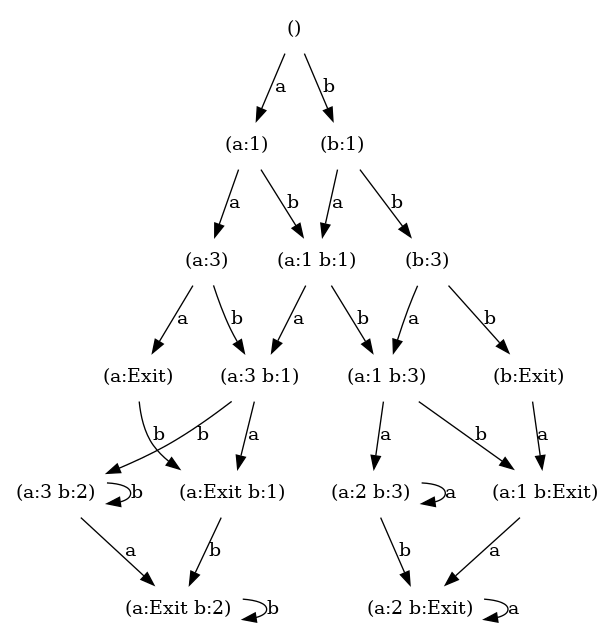
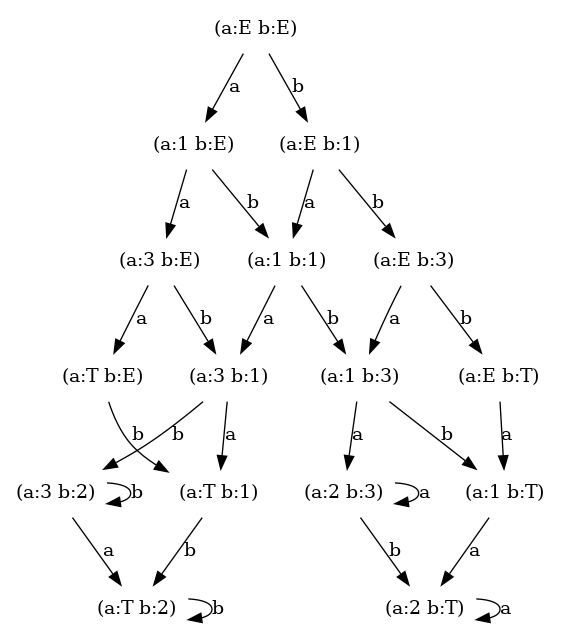
Andrey/Further docs and samples

diff --git a/race2/abstract.py b/race2/abstract.py
@@ -13,7 +13,7 @@ ProcessGenerator = NewType("ProcessGenerator", Generator[StateID, None, None])
 
 class SpecialState(enum.Enum):
     Entry = 1
-    Exit = 2
+    Terminated = 2
     # Error = 3
 
     def __repr__(self):
@@ -36,9 +36,16 @@ class Execution:
     identifiable state of some abstract process.
     """
 
-    curr_processes: dict[ProcessID, ProcessGenerator]
+    curr_processes: dict[ProcessID, ProcessGenerator] = field(default_factory=dict)
     curr_path: Path = field(default_factory=list)
-    curr_states: list[StateID | SpecialState] = field(default_factory=list)
+    _curr_state: "ExecutionState" = field(default_factory=lambda: ExecutionState())
+
+    def add_process(self, process_id: ProcessID, fun: ProcessGenerator) -> None:
+        if process_id in self.curr_processes:
+            raise AssertionError
+
+        self.curr_processes[process_id] = fun
+        self._curr_state[process_id] = SpecialState.Entry
 
     @property
     def available_processes(self) -> list[ProcessID]:
@@ -46,7 +53,7 @@ class Execution:
 
     @property
     def curr_state(self) -> "ExecutionState":
-        return ExecutionState.from_path_states(self.curr_path, self.curr_states)
+        return self._curr_state.copy()
 
     def next(self, process_id: ProcessID) -> StateID | SpecialState:
         if process_id not in self.available_processes:
@@ -59,10 +66,11 @@ class Execution:
             # we intentionally do not handle any exceptions here, exiting is exiting.
             # these should be handled up the call stack
             del self.curr_processes[process_id]
-            next_state_id = SpecialState.Exit
+            next_state_id = SpecialState.Terminated
 
         self.curr_path.append(process_id)
-        self.curr_states.append(next_state_id)
+
+        self._curr_state[process_id] = next_state_id
 
         return next_state_id
 
@@ -87,6 +95,14 @@ class ExecutionState:
     @classmethod
     def zero(cls):
         return ExecutionState({})
+
+    def copy(self) -> "ExecutionState":
+        return ExecutionState(dict(self.states))
+
+    def __setitem__(
+        self, key: ProcessID, value: StateID | SpecialState
+    ) -> "ExecutionState":
+        self.states[key] = value
 
     @classmethod
     def from_path_states(
@@ -124,6 +140,8 @@ class Visitor:
     # paths to cover
     queue: Deque[Path] = field(default_factory=deque)
 
+    root_states: set[ExecutionState] = field(default_factory=set)
+
     paths_found_ctr: int = 0
     instantiation_ctr: int = 0
     edge_visit_ctr: int = 0
@@ -153,20 +171,19 @@ class Visitor:
             self._push_path(path)
 
     def split_path_visited(self, path: Path) -> tuple[bool, Path, Path]:
-        curr_state = ExecutionState.zero()
+        for curr_state in self.root_states:
+            for i, next_process_id in enumerate(path):
+                # if curr_state != ExecutionState.zero() and all(
+                #     v == SpecialState.Exit for v in curr_state.states.values()
+                # ):
+                #     return False, path[:i], path[i:]
 
-        for i, next_process_id in enumerate(path):
-            # if curr_state != ExecutionState.zero() and all(
-            #     v == SpecialState.Exit for v in curr_state.states.values()
-            # ):
-            #     return False, path[:i], path[i:]
+                key = curr_state, next_process_id
 
-            key = curr_state, next_process_id
-
-            if key in self.visited_edges:
-                curr_state = self.visited_edges[key]
-            else:
-                return True, path[:i], path[i:]
+                if key in self.visited_edges:
+                    curr_state = self.visited_edges[key]
+                else:
+                    return True, path[:i], path[i:]
 
         return True, path, Path([])
 
@@ -201,6 +218,8 @@ class Visitor:
     def next_sub(self, seed: Path) -> int:
         self.instantiation_ctr += 1
         current_execution: Execution = self.factory()
+
+        self.root_states.add(current_execution.curr_state)
 
         paths_found_ctr: int = 0
 

diff --git a/race2_examples/retry.py b/race2_examples/retry.py
@@ -1,0 +1,67 @@
+from race2.abstract import (
+    ProcessGenerator,
+    Execution,
+    ProcessID,
+    Visitor,
+)
+from race2.util.graphviz import graphviz
+from race2_examples.util import DB
+
+
+def main():
+    MAX_RETRY_COUNT = 3
+
+    def factory() -> Execution:
+        database: DB = DB()
+
+        thread_ctr: int = 0
+
+        def thread(
+            database: DB,
+            thread_id: int,
+            retry_ctr: int = 1,
+            max_retry_count: int = MAX_RETRY_COUNT,
+        ) -> ProcessGenerator:
+            nonlocal thread_ctr
+
+            if database.compare_and_swap(
+                value_key="1", expected_value=None, set_value=thread_id
+            ):
+                yield 1
+                database.compare_and_swap(
+                    value_key="1", expected_value=thread_id, set_value=None
+                )
+            elif retry_ctr > max_retry_count:
+                pass
+            else:
+                yield 2
+                exec.add_process(
+                    ProcessID(thread_ctr),
+                    thread(database, thread_ctr, retry_ctr=retry_ctr + 1),
+                )
+
+                thread_ctr += 1
+
+        exec = Execution()
+        for i in range(2):
+            exec.add_process(ProcessID(i), thread(database, i))
+            thread_ctr = i + 1
+        return exec
+
+    vis = Visitor(factory)
+    vis.next()
+
+    # note there's no r3 process, meaning there can never be 3 retries
+    graphviz(
+        vis,
+        process_id_map={
+            0: "a",
+            1: "b",
+            **{k: f"r{k - 2}" for k in range(2, MAX_RETRY_COUNT + 2)},
+        },
+        filename="retry",
+    )
+
+
+if __name__ == "__main__":
+    main()

diff --git a/race2_tests/multiprocessing/test_combined_trace.py b/race2_tests/multiprocessing/test_combined_trace.py
@@ -50,7 +50,7 @@ class TestCASSpinlock(_TestCASSpinlock):
                         [
                             x
                             for x in states__list[-1].states.values()
-                            if x == SpecialState.Exit
+                            if x == SpecialState.Terminated
                         ]
                     )
                     == 2
@@ -76,7 +76,7 @@ class TestCASSpinlock(_TestCASSpinlock):
                         [
                             x
                             for x in states__list[-1].states.values()
-                            if x == SpecialState.Exit
+                            if x == SpecialState.Terminated
                         ]
                     )
                     == 3
@@ -154,7 +154,7 @@ class TestDeadlock(_TestDeadlock):
                     [
                         None
                         for x in states__list[-1].states.values()
-                        if x == SpecialState.Exit
+                        if x == SpecialState.Terminated
                     ]
                 )
                 >= 1

diff --git a/race2_tests/abstract/test_cas_spinlock.py b/race2_tests/abstract/test_cas_spinlock.py
@@ -60,7 +60,7 @@ class TestCASSpinlock(TestCase):
                         [
                             x
                             for x in states__list[-1].states.values()
-                            if x == SpecialState.Exit
+                            if x == SpecialState.Terminated
                         ]
                     )
                     == 2
@@ -86,7 +86,7 @@ class TestCASSpinlock(TestCase):
                         [
                             x
                             for x in states__list[-1].states.values()
-                            if x == SpecialState.Exit
+                            if x == SpecialState.Terminated
                         ]
                     )
                     == 3
@@ -157,7 +157,7 @@ class TestDeadlock(TestCase):
                     [
                         None
                         for x in states__list[-1].states.values()
-                        if x == SpecialState.Exit
+                        if x == SpecialState.Terminated
                     ]
                 )
                 >= 1

diff --git a/race2_examples/deadlock.py b/race2_examples/deadlock.py
@@ -1,28 +1,11 @@
-from dataclasses import dataclass, field
-
 from race2.abstract import (
     ProcessGenerator,
     Execution,
     ProcessID,
     Visitor,
-    SpecialState,
-    Path,
 )
 from race2.util.graphviz import graphviz
-
-
-@dataclass
-class DB:
-    items: dict[str, int] = field(default_factory=dict)
-
-    def compare_and_swap(
-        self, value_key: str, expected_value: int | None, set_value: int | None
-    ) -> bool:
-        if self.items.get(value_key) == expected_value:
-            self.items[value_key] = set_value
-            return True
-        else:
-            return False
+from race2_examples.util import DB
 
 
 def main():
@@ -38,9 +21,10 @@ def main():
 
     def factory() -> Execution:
         database: DB = DB()
-        return Execution(
-            {ProcessID(i): thread(database, i) for i in range(2)},
-        )
+        exec = Execution()
+        for i in range(2):
+            exec.add_process(ProcessID(i), thread(database, i))
+        return exec
 
     vis = Visitor(factory)
     vis.next()

diff --git a/race2/util/graphviz.py b/race2/util/graphviz.py
@@ -41,7 +41,7 @@ def graphviz(
                 f"{render_process_id}:{render_process_state_id}"
                 for process_id, process_state_id in sorted(state.states.items())
                 for render_process_state_id in [
-                    ReprStr(process_state_id.name)
+                    ReprStr(process_state_id.name[:1])
                     if isinstance(process_state_id, SpecialState)
                     else process_state_id
                 ]

diff --git a/race2_examples/util.py b/race2_examples/util.py
@@ -1,0 +1,15 @@
+from dataclasses import dataclass, field
+
+
+@dataclass
+class DB:
+    items: dict[str, int] = field(default_factory=dict)
+
+    def compare_and_swap(
+        self, value_key: str, expected_value: int | None, set_value: int | None
+    ) -> bool:
+        if self.items.get(value_key) == expected_value:
+            self.items[value_key] = set_value
+            return True
+        else:
+            return False

diff --git a/README.md b/README.md
@@ -6,6 +6,9 @@ Race condition modelling package.
 What does it do?
 ----------------
 
+Deadlock example
+________________
+
 [Here's](./race2_examples/deadlock.py) an example code that you can run yourself.
 
 Imagine two threads defined by the function below trying to compete for a resource:
@@ -34,20 +37,30 @@ get the image below:
 <img src="race2_examples/deadlock.png">
 
 The numbers in this diagram directly relate to the numbers passed into `yield` within the function
-as as you should note they only have values of `1`, `2`, `3` and `Exit`. The letters in diagram represent 
+as as you should note they only have values of `1`, `2`, `3`, `T` and `E`. The letters in diagram represent 
 processes, and as the example only instantiates 2 processes there's 2 letters: `a` and `b`.
 
 Every vertex in the graph represents the current complete state of all the processes. As you will notice 
-the only vertex that has no incoming edges is represented by `()` meaning that neither process `a` or `b` had yet
-yielded any state IDs, and thus they are not started yet.
+the only vertex that has no incoming edges is represented by `(a:E b:E)` meaning that neither process `a` or `b` had yet
+yielded any state IDs, and thus they are not started yet (the processes exist, but have never been yielded).
 
 The edges represent the next process that we decide to execute. Starting from `()`, we can either pick `a` or `b`
 And it will yield a new global state of the system. Executing `a` means that `a` does `yield 1` and thus
 is now in state `1`, thus entering vertex labeled as `(a: 1)`.
 
-Paying attention to the bottom of the diagram, we see a total of 2 potential ending states: either `(a: Exit b:2)`
-or `(a:2 b:Exit)`. This means that either `a` or `b` will finish, but never both of them. It means that the deadlock is
+Paying attention to the bottom of the diagram, we see a total of 2 potential ending states: either `(a:T b:2)`
+or `(a:2 b:T)`. This means that either `a` or `b` will finish, but never both of them. It means that the deadlock is
 possible.
+
+Retry example
+_____________
+
+[Here's](./race2_examples/retry.py) another example code that you can run yourself. This process is modelling a process
+where a process tries to acquire a lock and then release it. If a process fails to acquire a lock it retries with
+a maximum of 3 attempts. The diagram below demonstrates that under the condition of no new processes starting
+3 retries (retry processes are marked with `rX` where `X` is the number of retry) would never be reached, although 2 retries will be.
+
+<img src="race2_examples/retry.png">
 
 Known idiosyncracies
 --------------------
